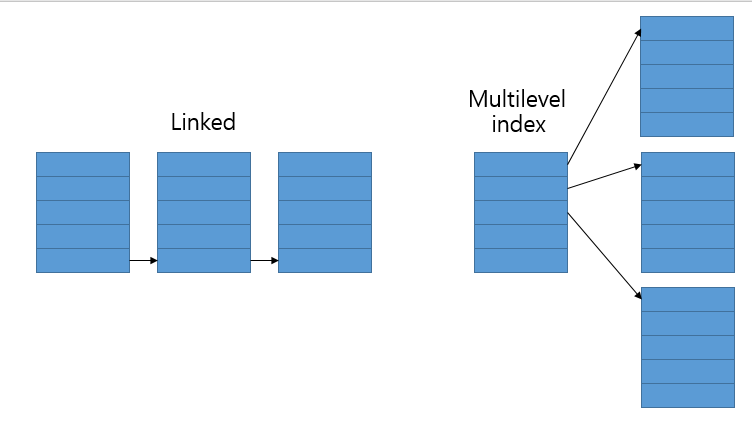
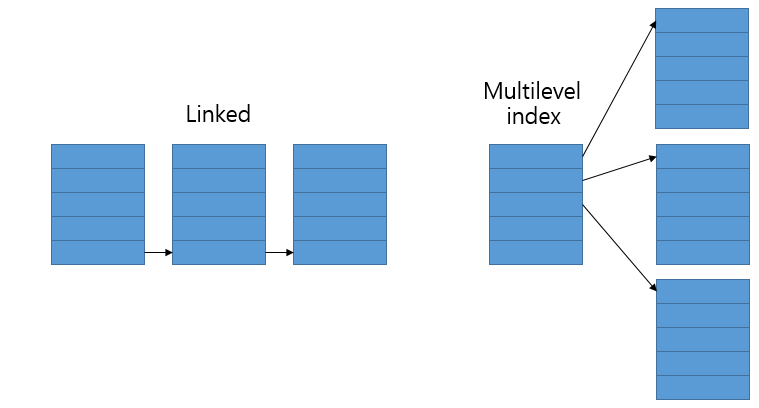
add

diff --git a/_posts/2020-06-01-파일 할당.md b/_posts/2020-06-01-파일 할당.md
@@ -52,4 +52,5 @@ categories :
   ex) 1byte 파일 위해 데이터 블록 1 + 인덱스 블록 1  
   2. 최대 파일 크기 : 256KB -> Linked, Multilevel index등의 방식으로 해결  
 
-  ![](/assets/images/파일할당4.png){: width="50%" height="50%"}     
+  ![](/assets/images/파일할당4.png)  
+  
